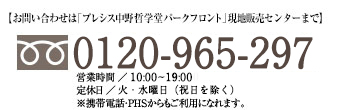
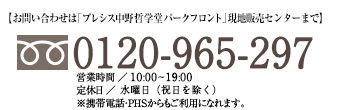
Update nakanotetsugakudo

Changed region(s): [[0.3561, 0.7636, 0.7122, 0.8727]]

diff --git a/prostyle-residence/www/nakanotetsugakudo/contact/reservation/index.html b/prostyle-residence/www/nakanotetsugakudo/contact/reservation/index.html
@@ -194,8 +194,14 @@
                                                     <select name="raijo-time" id="iraijo-time" class="form-control" onchange="">
                                                         <option value="null" selected="">時間帯を選択</option>
                                                         <option value="10:00">10:00</option>
+                                                        <option value="11:00">11:00</option>
+                                                        <option value="12:00">12:00</option>
                                                         <option value="13:00">13:00</option>
+                                                        <option value="14:00">14:00</option>
+                                                        <option value="15:00">15:00</option>
                                                         <option value="16:00">16:00</option>
+                                                        <option value="17:00">17:00</option>
+                                                        <option value="18:00">18:00</option>
                                                     </select>
 
 

diff --git a/prostyle-residence/www/nakanotetsugakudo/contact/reservation/js/functions.js b/prostyle-residence/www/nakanotetsugakudo/contact/reservation/js/functions.js
@@ -331,7 +331,7 @@ $(document).ready(function(){
                 		return false;
             	}
 
-        if( date.getDay() == 2 || date.getDay() == 3)
+        if(date.getDay() == 3)
             return false;
 
             // if (date.getMonth() == (new Date()).getMonth())
